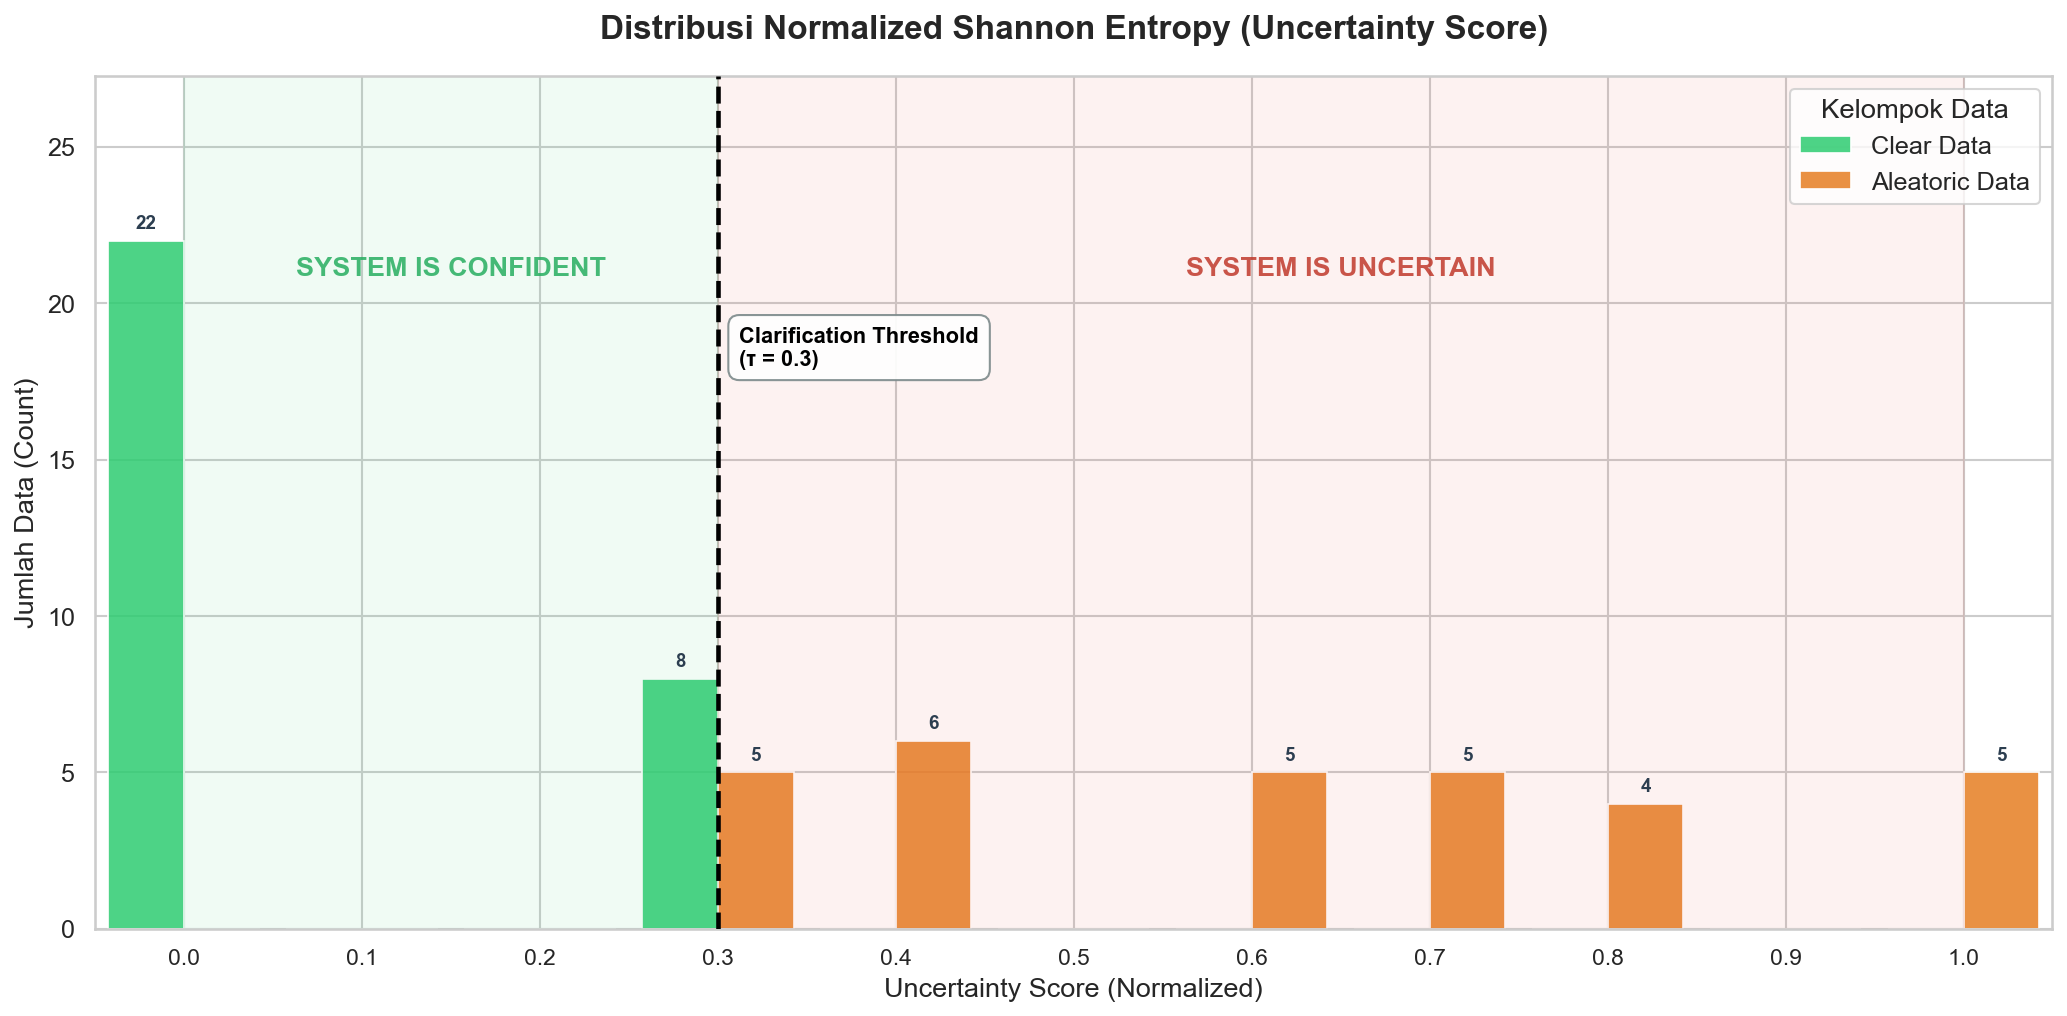
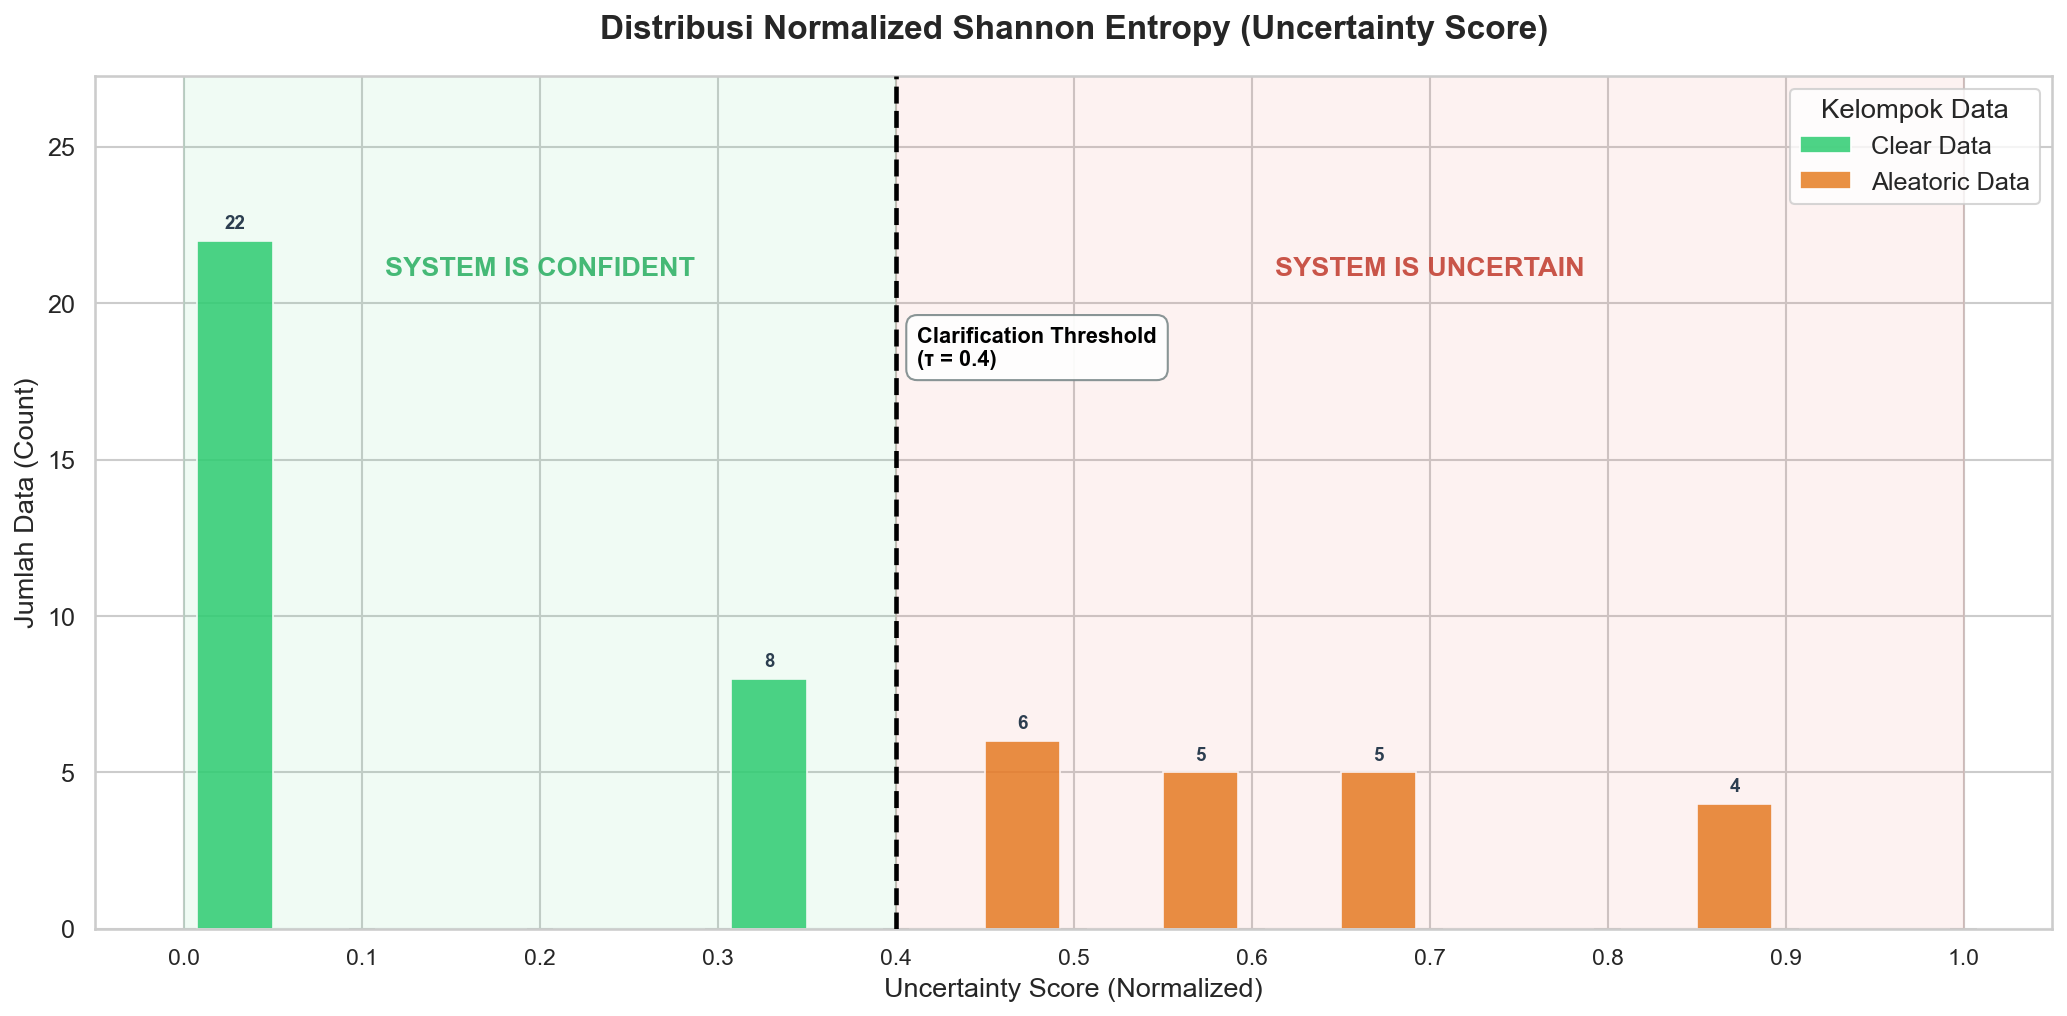
Fix : membenarkan code generate diagram agar bisa menghasilkan 3 diagram berbeda

diff --git a/experiment/uncertainty/generate_diagram_aleatoric.py b/experiment/uncertainty/generate_diagram_aleatoric.py
@@ -1,0 +1,89 @@
+import os
+import json
+import pandas as pd
+import matplotlib.pyplot as plt
+import seaborn as sns
+
+BASE_DIR = os.path.join("experiment", "uncertainty", "result")
+FILE_PATH = os.path.join(BASE_DIR, "scored_responses_aleatoric_data.json")
+OUTPUT_PATH = os.path.join(BASE_DIR, "distribusi_aleatoric_data_histogram.png")
+
+def load_scores(filepath: str, label: str) -> pd.DataFrame:
+    scores = []
+    if not os.path.exists(filepath):
+        print(f"[PERINGATAN] File tidak ditemukan: {filepath}")
+        return pd.DataFrame({"score": [], "type": []})
+
+    with open(filepath, "r", encoding="utf-8") as f:
+        data = json.load(f)
+
+    for item in data:
+        score = item.get("normalized_uncertainty_score")
+        if score is not None:
+            scores.append(score)
+
+    print(f"[{label}] Loaded {len(scores)} data points dari {os.path.basename(filepath)}")
+    return pd.DataFrame({"score": scores, "type": label})
+
+df = load_scores(FILE_PATH, "Aleatoric Data")
+
+if df.empty:
+    print("[ERROR] Tidak ada data untuk divisualisasikan.")
+    exit(1)
+
+print("\n=== Statistik Ringkas ===")
+print(df["score"].describe().to_string())
+print()
+
+PALETTE = {"Aleatoric Data": "#e67e22"}
+CUSTOM_BINS = [i * 0.1 for i in range(12)]
+
+sns.set_theme(style="whitegrid", font_scale=1.1)
+fig, ax = plt.subplots(figsize=(14, 7))
+
+hist = sns.histplot(
+    data=df,
+    x="score",
+    hue="type",
+    bins=CUSTOM_BINS,
+    palette=PALETTE,
+    alpha=0.85,
+    edgecolor="white",
+    linewidth=0.8,
+    ax=ax,
+    legend=False
+)
+
+for patch in ax.patches:
+    height = patch.get_height()
+    if height > 0:
+        ax.annotate(
+            f"{int(height)}",
+            xy=(patch.get_x() + patch.get_width() / 2, height),
+            xytext=(0, 4),
+            textcoords="offset points",
+            ha="center", va="bottom",
+            fontsize=10, fontweight="bold", color="#2c3e50"
+        )
+
+ax.set_xlim(-0.05, 1.05)
+ax.set_ylim(bottom=0)
+
+y_max = ax.get_ylim()[1]
+ax.set_ylim(0, y_max * 1.18)
+
+ax.set_title(
+    "Distribusi Normalized Shannon Entropy - Aleatoric Data",
+    fontsize=16, fontweight="bold", pad=18
+)
+ax.set_xlabel("Uncertainty Score (Normalized)", fontsize=13)
+ax.set_ylabel("Jumlah Data (Count)", fontsize=13)
+
+tick_positions = [i * 0.1 for i in range(11)]
+tick_labels = [f"{x:.1f}" for x in tick_positions]
+ax.set_xticks(tick_positions)
+ax.set_xticklabels(tick_labels, rotation=0, fontsize=11)
+
+plt.tight_layout()
+plt.savefig(OUTPUT_PATH, dpi=150, bbox_inches="tight")
+print(f"[OK] Grafik disimpan di: {OUTPUT_PATH}")

diff --git a/experiment/uncertainty/generate_diagram_clear.py b/experiment/uncertainty/generate_diagram_clear.py
@@ -1,0 +1,89 @@
+import os
+import json
+import pandas as pd
+import matplotlib.pyplot as plt
+import seaborn as sns
+
+BASE_DIR = os.path.join("experiment", "uncertainty", "result")
+FILE_PATH = os.path.join(BASE_DIR, "scored_responses_clear_data.json")
+OUTPUT_PATH = os.path.join(BASE_DIR, "distribusi_clear_data_histogram.png")
+
+def load_scores(filepath: str, label: str) -> pd.DataFrame:
+    scores = []
+    if not os.path.exists(filepath):
+        print(f"[PERINGATAN] File tidak ditemukan: {filepath}")
+        return pd.DataFrame({"score": [], "type": []})
+
+    with open(filepath, "r", encoding="utf-8") as f:
+        data = json.load(f)
+
+    for item in data:
+        score = item.get("normalized_uncertainty_score")
+        if score is not None:
+            scores.append(score)
+
+    print(f"[{label}] Loaded {len(scores)} data points dari {os.path.basename(filepath)}")
+    return pd.DataFrame({"score": scores, "type": label})
+
+df = load_scores(FILE_PATH, "Clear Data")
+
+if df.empty:
+    print("[ERROR] Tidak ada data untuk divisualisasikan.")
+    exit(1)
+
+print("\n=== Statistik Ringkas ===")
+print(df["score"].describe().to_string())
+print()
+
+PALETTE = {"Clear Data": "#2ecc71"}
+CUSTOM_BINS = [i * 0.1 for i in range(12)]
+
+sns.set_theme(style="whitegrid", font_scale=1.1)
+fig, ax = plt.subplots(figsize=(14, 7))
+
+hist = sns.histplot(
+    data=df,
+    x="score",
+    hue="type",
+    bins=CUSTOM_BINS,
+    palette=PALETTE,
+    alpha=0.85,
+    edgecolor="white",
+    linewidth=0.8,
+    ax=ax,
+    legend=False
+)
+
+for patch in ax.patches:
+    height = patch.get_height()
+    if height > 0:
+        ax.annotate(
+            f"{int(height)}",
+            xy=(patch.get_x() + patch.get_width() / 2, height),
+            xytext=(0, 4),
+            textcoords="offset points",
+            ha="center", va="bottom",
+            fontsize=10, fontweight="bold", color="#2c3e50"
+        )
+
+ax.set_xlim(-0.05, 1.05)
+ax.set_ylim(bottom=0)
+
+y_max = ax.get_ylim()[1]
+ax.set_ylim(0, y_max * 1.18)
+
+ax.set_title(
+    "Distribusi Normalized Shannon Entropy - Clear Data",
+    fontsize=16, fontweight="bold", pad=18
+)
+ax.set_xlabel("Uncertainty Score (Normalized)", fontsize=13)
+ax.set_ylabel("Jumlah Data (Count)", fontsize=13)
+
+tick_positions = [i * 0.1 for i in range(11)]
+tick_labels = [f"{x:.1f}" for x in tick_positions]
+ax.set_xticks(tick_positions)
+ax.set_xticklabels(tick_labels, rotation=0, fontsize=11)
+
+plt.tight_layout()
+plt.savefig(OUTPUT_PATH, dpi=150, bbox_inches="tight")
+print(f"[OK] Grafik disimpan di: {OUTPUT_PATH}")

diff --git a/experiment/uncertainty/generate_diagram.py b/experiment/uncertainty/generate_diagram.py
@@ -81,9 +81,9 @@ PALETTE = {
     "Aleatoric Data": "#e67e22",
 }
 
-THRESHOLD = 0.300
-# Jumlah bin histogram untuk menempatkan setiap batang tepat di tengah-tengah nilai 0.0, 0.1, ..., 1.0
-CUSTOM_BINS = [-0.05 + i * 0.1 for i in range(12)]
+THRESHOLD = 0.400
+# Jumlah bin histogram untuk menempatkan setiap batang di antara nilai (misal 0.0 - 0.1)
+CUSTOM_BINS = [i * 0.1 for i in range(12)]
 
 sns.set_theme(style="whitegrid", font_scale=1.1)
 fig, ax = plt.subplots(figsize=(14, 7))
@@ -159,11 +159,11 @@ ax.set_title(
 ax.set_xlabel("Uncertainty Score (Normalized)", fontsize=13)
 ax.set_ylabel("Jumlah Data (Count)", fontsize=13)
 
-# Tambahkan label tick X yang informatif dengan 1 nilai tepat (0.0, 0.1, dst)
-bin_centers = [i * 0.1 for i in range(11)]
-bin_labels = [f"{x:.1f}" for x in bin_centers]
-ax.set_xticks(bin_centers)
-ax.set_xticklabels(bin_labels, rotation=0, fontsize=11)
+# Tambahkan label tick X yang informatif dengan batas-batas (0.0, 0.1, dst)
+tick_positions = [i * 0.1 for i in range(11)]
+tick_labels = [f"{x:.1f}" for x in tick_positions]
+ax.set_xticks(tick_positions)
+ax.set_xticklabels(tick_labels, rotation=0, fontsize=11)
 
 # ─── Legend ───
 legend = ax.get_legend()
